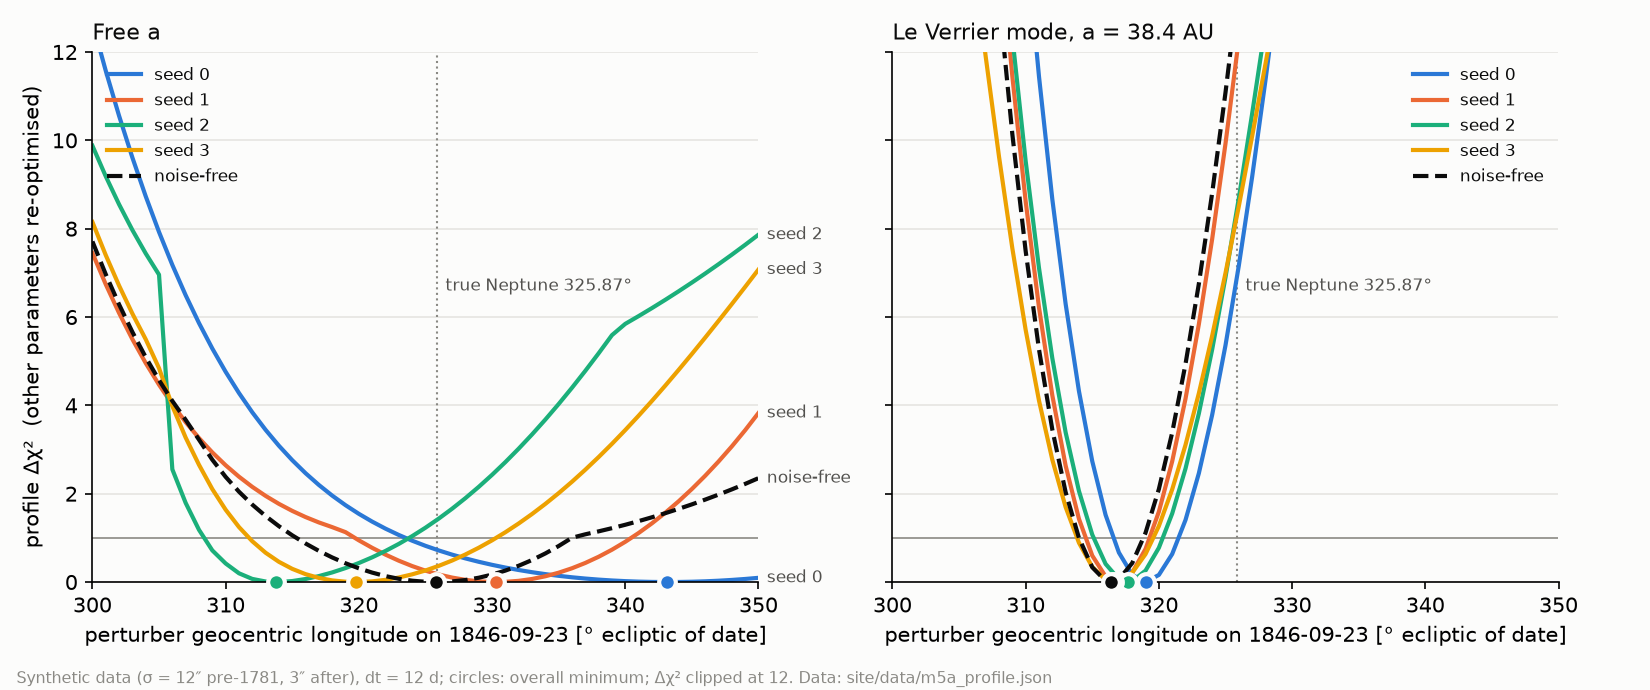
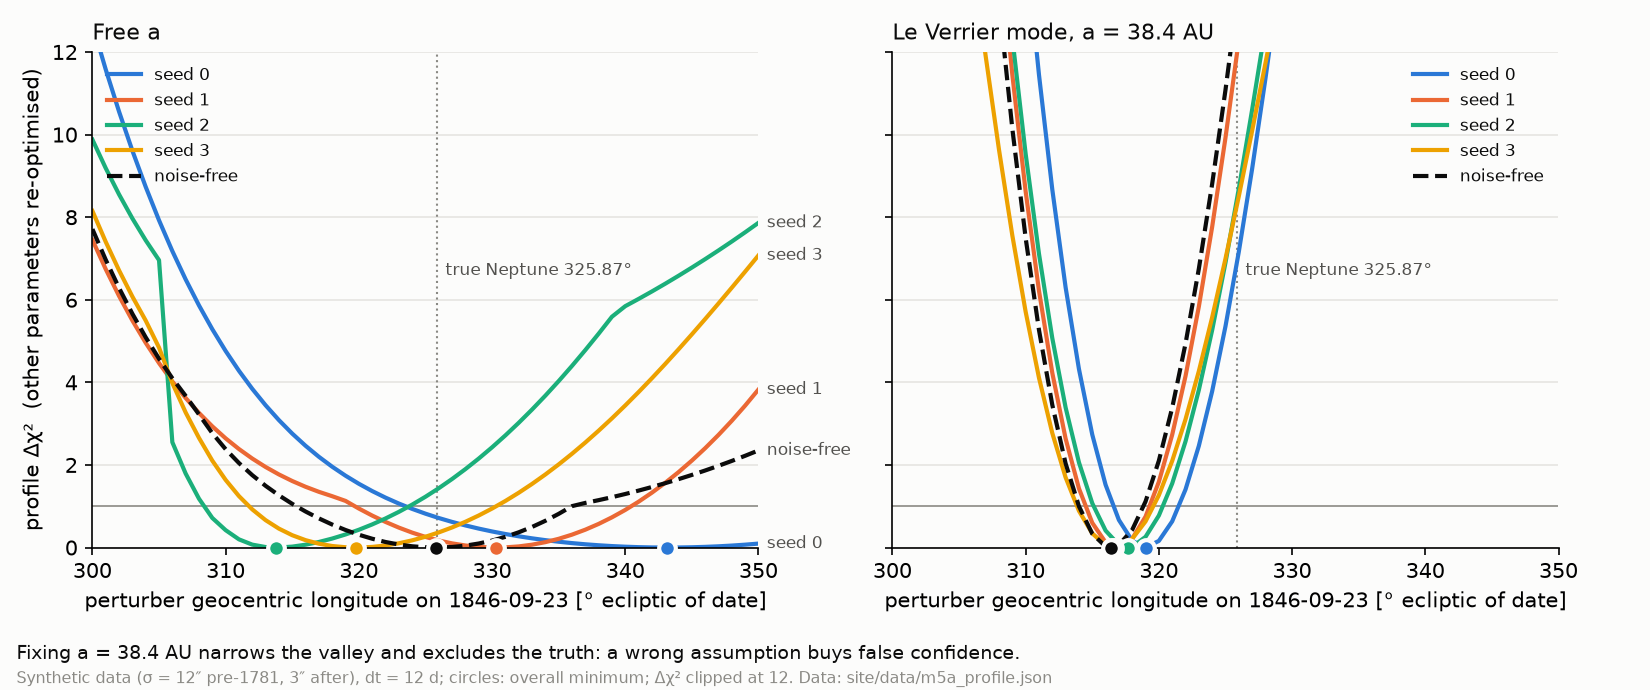
Profile plot: caption line on what fixing a = 38.4 AU does
Adds: 'Fixing a = 38.4 AU narrows the valley and excludes the truth: a wrong assumption buys
false confidence.' Re-rendered from the committed m5a_profile.json; the plot is re-made again
when the profile is re-exported with the continuation sweeps.

Changed region(s): [[0.0, 0.0913, 0.9582, 0.9739]]

diff --git a/docs/notes/scripts/m5a_profile_plot.py b/docs/notes/scripts/m5a_profile_plot.py
@@ -59,10 +59,12 @@ def main() -> None:
     axes[0].set_ylabel("profile Δχ²  (other parameters re-optimised)")
     for ax, loc in zip(axes, ("upper left", "upper right"), strict=True):
         ax.legend(loc=loc, frameon=False, fontsize=8, labelcolor=INK)
+    fig.text(0.01, 0.045, "Fixing a = 38.4 AU narrows the valley and excludes the truth: a wrong "
+             "assumption buys false confidence.", fontsize=9, color=INK)  # fmt: skip
     fig.text(0.01, 0.01, "Synthetic data (σ = 12″ pre-1781, 3″ after), dt = 12 d; circles: overall "
              "minimum; Δχ² clipped at 12. Data: site/data/m5a_profile.json", fontsize=7.5,
              color=INK_MUTED)  # fmt: skip
-    fig.tight_layout(rect=(0, 0.03, 0.97, 1))
+    fig.tight_layout(rect=(0, 0.08, 0.97, 1))
     fig.savefig(OUT, facecolor=SURFACE)
     print(f"wrote {OUT}")
 
